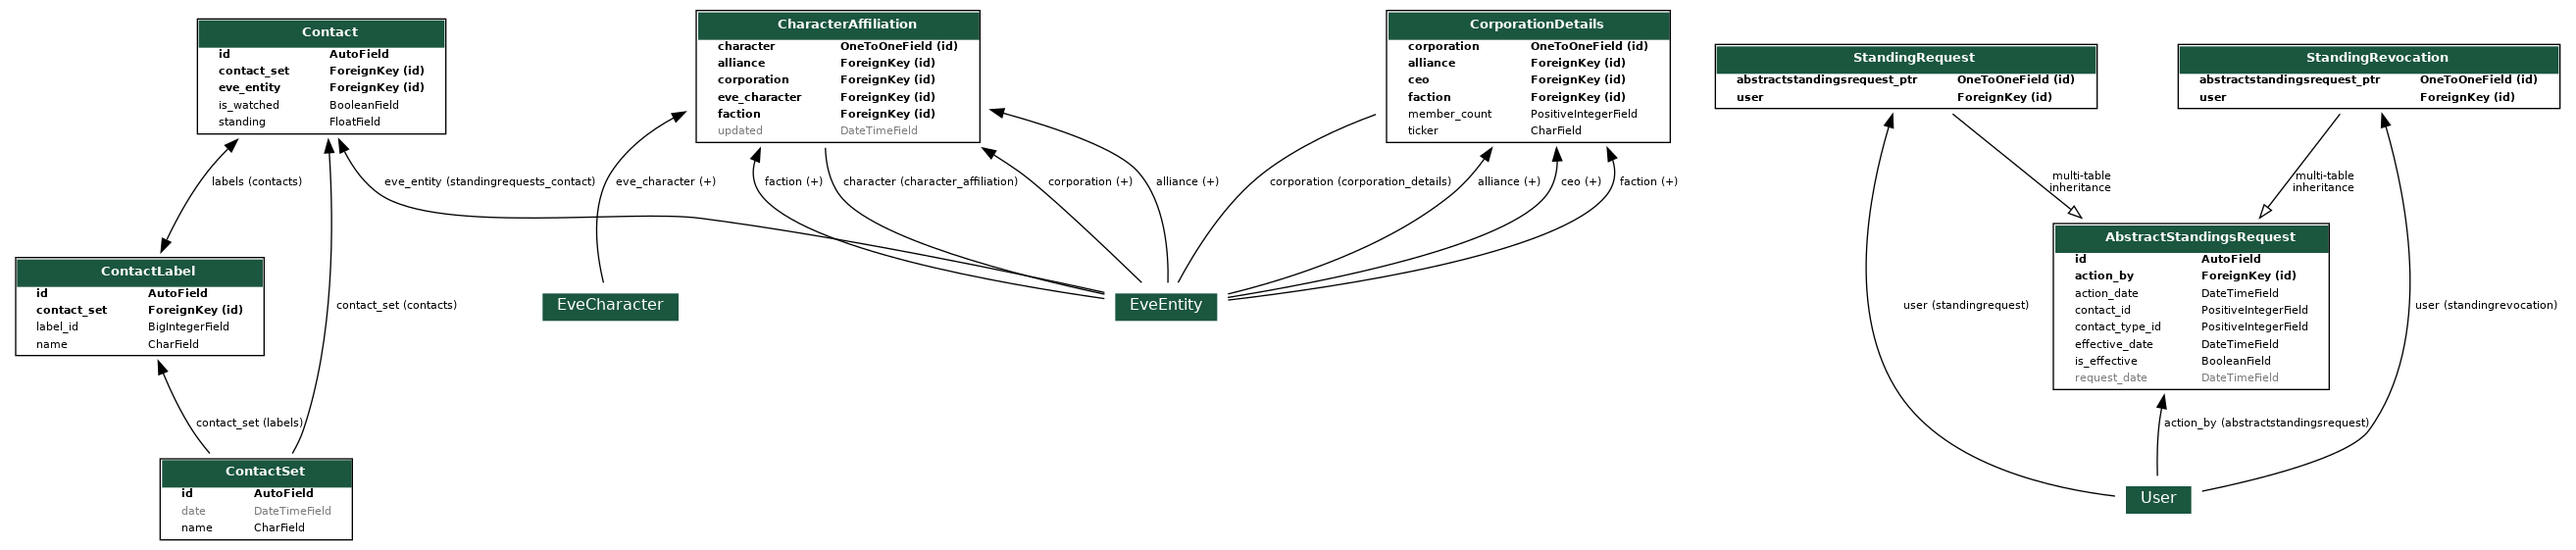
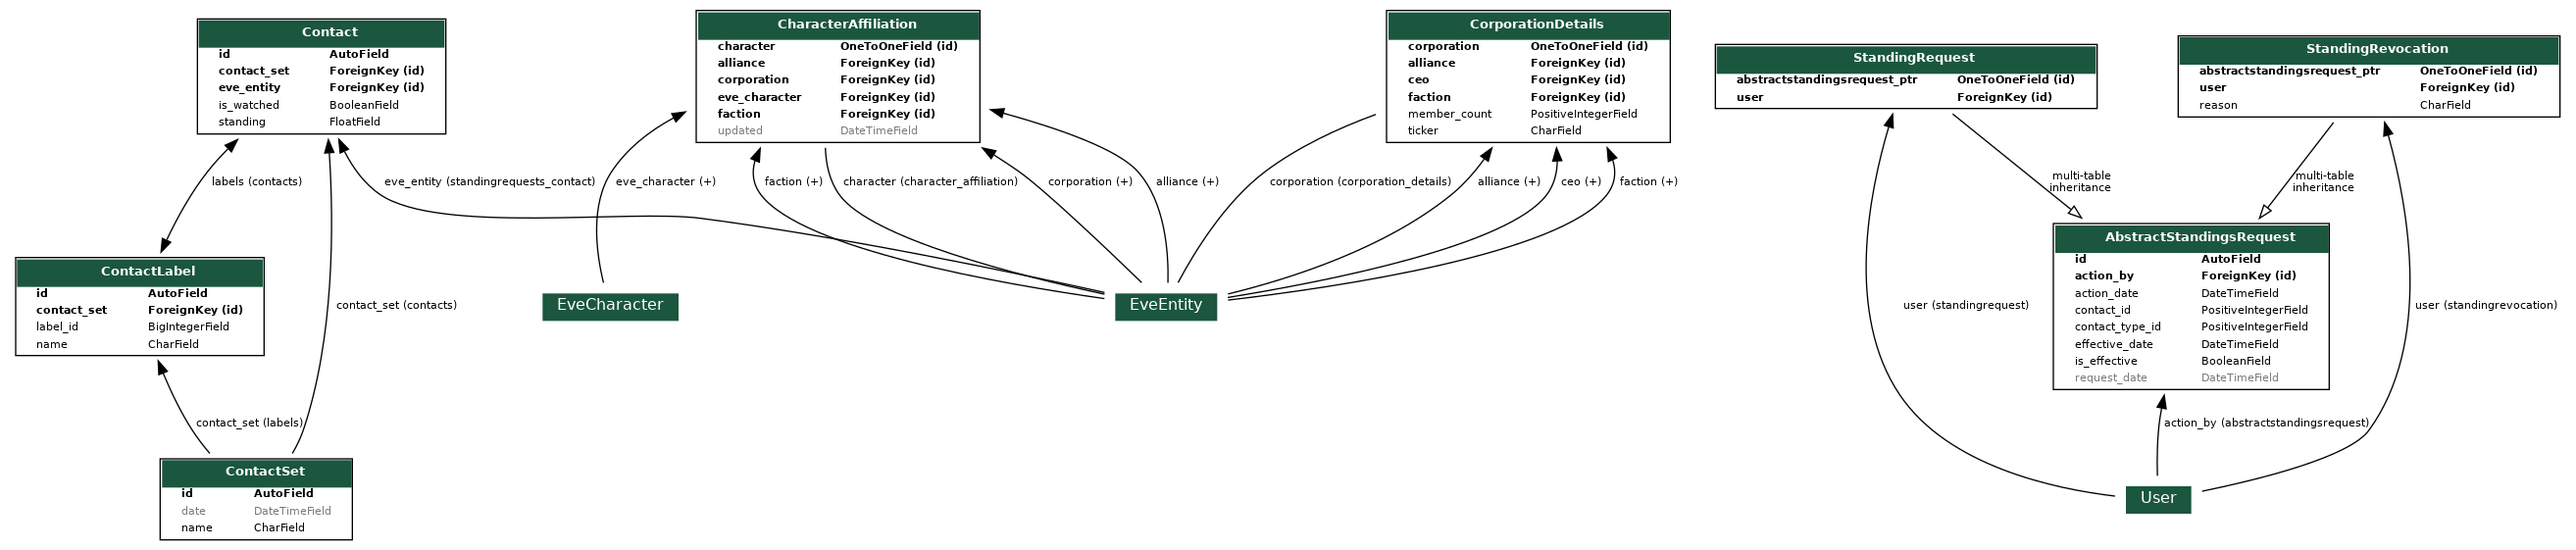
Add contact labels to revocations and effective standings requests

Changed region(s): [[0.8428, 0.0606, 0.9989, 0.2424]]

diff --git a/standingsrequests/templates/standingsrequests/requests.html b/standingsrequests/templates/standingsrequests/requests.html
@@ -31,7 +31,7 @@
                             <th class="col-md-2">{% trans "Main Character" %}</th>
                             <th class="col-md-1">{% trans "Scopes / State" %}</th>
                             <th class="col-md-2">{% trans "Effective / Accepted By" %}</th>
-                            <th class="col-md-1">{% trans "" %}</th>
+                            <th class="col-md-2">{% trans "Contact Labels" %}</th>
                         </tr>
                         {% verbatim %}
                         <tr ng-repeat="contact in requests">
@@ -63,11 +63,7 @@
                                 <span ng-bind="contact.action_by" ng-show="contact.action_by"></span>
                             </td>
                             <td>
-                                <!--
-                                <button class="btn btn-danger" ng-click="rejectRequest(contact)" title="Revoke standing of this contact">
-                                    Revoke
-                                </button>
-                                -->
+                                <div ng-repeat="obj in contact.labels">{{ obj }}<span ng-if="!$last">, </span></div>
                             </td>
                         </tr>
 

diff --git a/standingsrequests/templates/standingsrequests/manage.html b/standingsrequests/templates/standingsrequests/manage.html
@@ -111,7 +111,7 @@
                             <th class="col-md-2">{% trans "Corporation / Alliance" %}</th>
                             <th class="col-md-2">{% trans "Main Character" %}</th>
                             <th class="col-md-1">{% trans "Scopes / State" %}</th>
-                            <th class="col-md-2">{% trans "Reason" %}</th>
+                            <th class="col-md-2">{% trans "Reason / Contact Labels" %}</th>
                             <th class="col-md-2">{% trans "Actions" %}</th>
                         </tr>
                         {% verbatim %}
@@ -143,7 +143,8 @@
                                 {{ contact.state }}
                             </td>
                             <td>
-                                {{ contact.reason }}
+                                {{ contact.reason }}<br>
+                                <div ng-repeat="obj in contact.labels">{{ obj }}<span ng-if="!$last">, </span></div>
                             </td>
                             <td>
                                 <button class="btn btn-success" ng-click="actionRevocation(contact)" title="Confirm the standing was REMOVED in game">

diff --git a/standingsrequests/tests/test_views.py b/standingsrequests/tests/test_views.py
@@ -171,7 +171,7 @@ class TestViewPilotStandingsJson(NoSocketsTestCase):
         # then
         self.assertEqual(response.status_code, 200)
         data = json_response_to_dict(response, "character_id")
-        expected = {1001, 1002, 1003, 1004, 1005, 1006, 1008, 1009, 1010}
+        expected = {1001, 1002, 1003, 1004, 1005, 1006, 1008, 1009, 1010, 1110}
         self.assertSetEqual(set(data.keys()), expected)
 
         data_character_1002 = data[1002]
@@ -744,6 +744,7 @@ class TestViewManageRequestsJson(TestViewPagesBase):
             "is_character": True,
             "action_by": "(System)",
             "reason": None,
+            "labels": [],
         }
         self.assertDictEqual(data_alt_1, expected_alt_1)
 
@@ -800,6 +801,7 @@ class TestViewManageRequestsJson(TestViewPagesBase):
             "is_character": False,
             "action_by": "(System)",
             "reason": None,
+            "labels": [],
         }
         self.assertDictEqual(data[alt_id], expected_alt_1)
 
@@ -807,22 +809,24 @@ class TestViewManageRequestsJson(TestViewPagesBase):
 @patch(HELPERS_EVECORPORATION_PATH + ".cache")
 @patch(HELPERS_EVECORPORATION_PATH + ".esi")
 class TestViewManageRevocationsJson(TestViewPagesBase):
-    def test_revoke_character(self, mock_esi, mock_cache):
-        # setup
-        alt_id = self.alt_character_1.character_id
-        self._create_standing_for_alt(self.alt_character_1)
+    def test_should_show_character_revocation(self, mock_esi, mock_cache):
+        # given
+        alt_character = EveCharacter.objects.get(character_id=1110)
+        alt_id = alt_character.character_id
+        self._create_standing_for_alt(alt_character)
         standing_request = StandingRevocation.objects.add_revocation(
-            alt_id, StandingRevocation.CHARACTER_CONTACT_TYPE, user=self.user_requestor
+            alt_id,
+            StandingRevocation.CHARACTER_CONTACT_TYPE,
+            user=self.user_requestor,
+            reason=StandingRevocation.Reason.LOST_PERMISSION,
         )
-
-        # make request
         request = self.factory.get(
             reverse("standingsrequests:manage_get_revocations_json")
         )
         request.user = self.user_manager
+        # when
         response = views.manage_get_revocations_json(request)
-
-        # validate
+        # then
         self.assertEqual(response.status_code, 200)
         data = json_response_to_dict(response, "contact_id")
         expected = {alt_id}
@@ -831,15 +835,15 @@ class TestViewManageRevocationsJson(TestViewPagesBase):
 
         data_alt_1 = data[alt_id]
         expected_alt_1 = {
-            "contact_id": 1007,
-            "contact_name": "James Gordon",
-            "contact_icon_url": "https://images.evetech.net/characters/1007/portrait?size=32",
-            "corporation_id": 2004,
-            "corporation_name": "Metro Police",
-            "corporation_ticker": "MP",
+            "contact_id": 1110,
+            "contact_name": "Phil Coulson",
+            "contact_icon_url": "https://images.evetech.net/characters/1110/portrait?size=32",
+            "corporation_id": 2110,
+            "corporation_name": "Shield",
+            "corporation_ticker": "SH",
             "alliance_id": None,
             "alliance_name": "",
-            "has_scopes": True,
+            "has_scopes": False,
             "request_date": standing_request.request_date.isoformat(),
             "action_date": None,
             "state": "Member",
@@ -851,7 +855,8 @@ class TestViewManageRevocationsJson(TestViewPagesBase):
             "is_corporation": False,
             "is_character": True,
             "action_by": "(System)",
-            "reason": "None recorded",
+            "reason": "Character owner has lost permission",
+            "labels": ["red", "yellow"],
         }
         self.assertDictEqual(data_alt_1, expected_alt_1)
 
@@ -910,6 +915,7 @@ class TestViewManageRevocationsJson(TestViewPagesBase):
             "is_character": False,
             "action_by": "(System)",
             "reason": "None recorded",
+            "labels": [],
         }
         self.assertDictEqual(data[alt_id], expected_alt_1)
 
@@ -960,6 +966,7 @@ class TestViewManageRevocationsJson(TestViewPagesBase):
             "is_character": True,
             "action_by": "(System)",
             "reason": "None recorded",
+            "labels": ["red"],
         }
         self.assertDictEqual(data_alt_1, expected_alt_1)
 
@@ -1009,6 +1016,7 @@ class TestViewManageRevocationsJson(TestViewPagesBase):
             "is_character": True,
             "action_by": "(System)",
             "reason": "None recorded",
+            "labels": ["yellow"],
         }
         self.assertDictEqual(data_alt_1, expected_alt_1)
 
@@ -1056,6 +1064,7 @@ class TestViewActiveRequestsJson(TestViewPagesBase):
             "is_character": True,
             "action_by": self.user_manager.username,
             "reason": None,
+            "labels": [],
         }
         self.assertDictEqual(data_alt_1, expected_alt_1)
 
@@ -1106,5 +1115,6 @@ class TestViewActiveRequestsJson(TestViewPagesBase):
             "is_character": False,
             "action_by": self.user_manager.username,
             "reason": None,
+            "labels": [],
         }
         self.assertDictEqual(data[alt_id], expected_alt_1)

diff --git a/standingsrequests/views.py b/standingsrequests/views.py
@@ -896,7 +896,7 @@ def _compose_standing_requests_data(
     requests_qs = requests_qs.select_related(
         "user", "user__profile__state", "user__profile__main_character"
     )
-    # preload character ids in bulk
+    # preload data in bulk
     eve_characters = {
         character.character_id: character
         for character in EveCharacter.objects.filter(
@@ -907,7 +907,7 @@ def _compose_standing_requests_data(
             )
         )
     }
-    # preload corporations in bulk
+    # TODO: remove EveCorporation usage
     eve_corporations = {
         corporation.corporation_id: corporation
         for corporation in EveCorporation.get_many_by_id(
@@ -916,6 +916,18 @@ def _compose_standing_requests_data(
             )
         )
     }
+    all_contact_ids = set(eve_characters.keys()) | set(eve_corporations.keys())
+    try:
+        contact_set = ContactSet.objects.latest()
+    except ContactSet.DoesNotExist:
+        contacts = dict()
+    else:
+        contacts = {
+            obj.eve_entity_id: obj
+            for obj in contact_set.contacts.prefetch_related("labels").filter(
+                eve_entity_id__in=all_contact_ids
+            )
+        }
     requests_data = list()
     for req in requests_qs:
         main_character_name = ""
@@ -982,6 +994,12 @@ def _compose_standing_requests_data(
             reason = req.get_reason_display()
         else:
             reason = None
+        try:
+            my_contact = contacts[req.contact_id]
+        except KeyError:
+            labels = []
+        else:
+            labels = [obj.name for obj in my_contact.labels.all()]
 
         requests_data.append(
             {
@@ -998,6 +1016,7 @@ def _compose_standing_requests_data(
                 "has_scopes": has_scopes,
                 "state": state_name,
                 "reason": reason,
+                "labels": sorted(labels),
                 "main_character_name": main_character_name,
                 "main_character_ticker": main_character_ticker,
                 "main_character_icon_url": main_character_icon_url,

diff --git a/standingsrequests/managers.py b/standingsrequests/managers.py
@@ -652,7 +652,12 @@ class CorporationDetailsManager(models.Manager):
                 "eve_entity__character_affiliation__corporation_id", flat=True
             )
         )
-        return set(contact_corporation_ids | character_affiliation_corporation_ids)
+        return set(
+            filter(
+                lambda x: x is not None,
+                contact_corporation_ids | character_affiliation_corporation_ids,
+            )
+        )
 
     def update_or_create_from_esi(self, id: int) -> Tuple[models.Model, bool]:
         """Updates or create an obj from ESI"""

diff --git a/standingsrequests/tests/test_managers.py b/standingsrequests/tests/test_managers.py
@@ -88,6 +88,7 @@ class TestContactSetManager(NoSocketsTestCase):
             (1008, -5),
             (1009, -10),
             (1010, 5),
+            (1110, 5.0),
             (2001, 10.0),
             (2003, 5.0),
             (2102, -10.0),

diff --git a/CHANGELOG.md b/CHANGELOG.md
@@ -20,6 +20,8 @@ Please update all contacts after completing the installation. You can do that si
 ### Added
 
 - Standing revocations now show reason to managers (#11)
+- Standing revocations now shows related contact labels
+- Shows contact labels for all effective standing requests
 - Contact sets are now visible on the admin site
 - New button for updating all contacts from the admin site
 - Faction info for characters and corporations on standing pages
